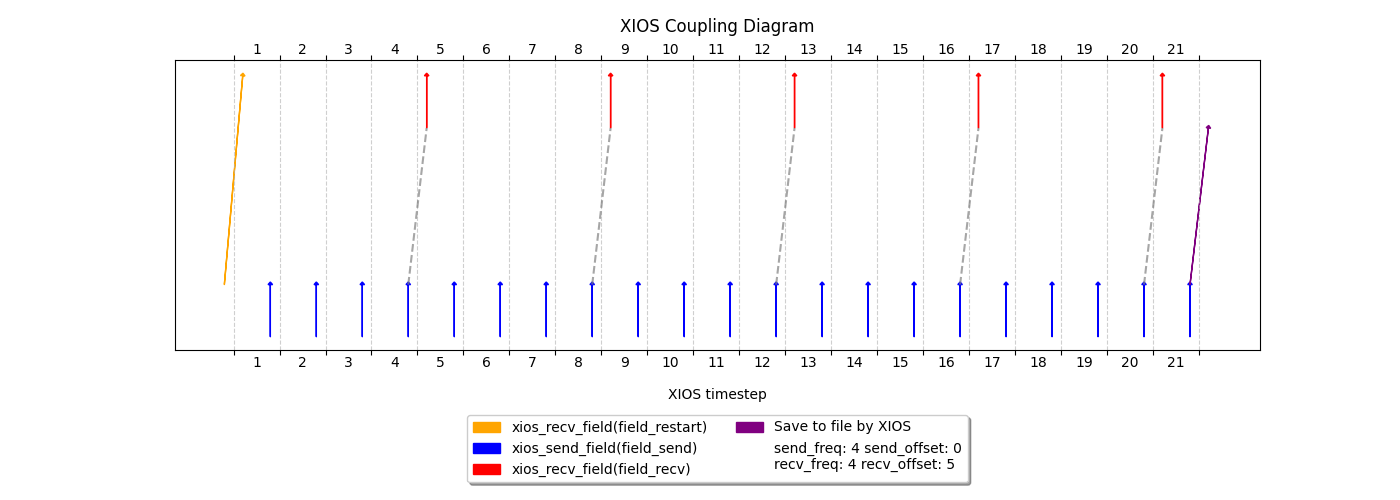
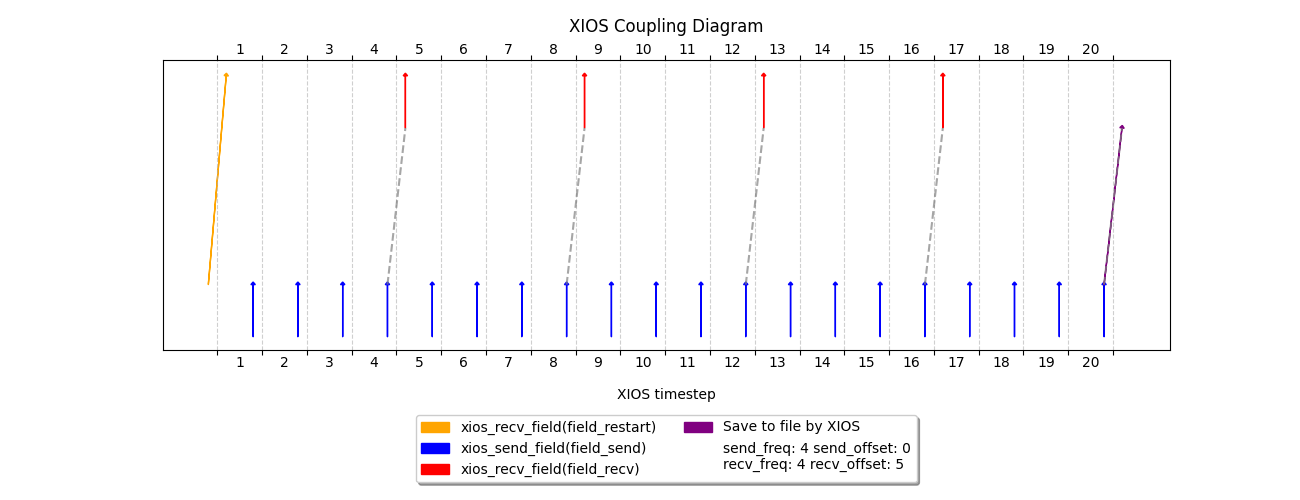
Minor plotter correction.

diff --git a/scripts/plot_coupling.py b/scripts/plot_coupling.py
@@ -87,7 +87,6 @@ class XiosCouplerPlotter:
             fancybox=True, shadow=True, ncol=2)
 
     def add_parameters_to_legend(self, ax, send_freq, recv_freq, send_offset, recv_offset):
-        # Workaround to add the parameters to the legend
         plt.plot([],[], ' ', label=f"send_freq: {send_freq} send_offset: {send_offset}\nrecv_freq: {recv_freq} recv_offset: {recv_offset}")
 
     def __init__(self, figsize=None, arrow_height=2, padding=0.2):
@@ -130,4 +129,4 @@ pl = XiosCouplerPlotter(arrow_height=2, padding=0.2)
 
 # Specific algorithm parameters for the plot
 #pl.plot(timesteps=20, send_freq=4, recv_freq=4, recv_offset=5, send_offset=0, restart_file=True, save_file=True)
-pl.plot(timesteps=21, send_freq=4, recv_freq=4, recv_offset=5, send_offset=0, restart_file=True, save_file=True)
+pl.plot(timesteps=20, send_freq=4, recv_freq=4, recv_offset=5, send_offset=0, restart_file=True, save_file=True)
